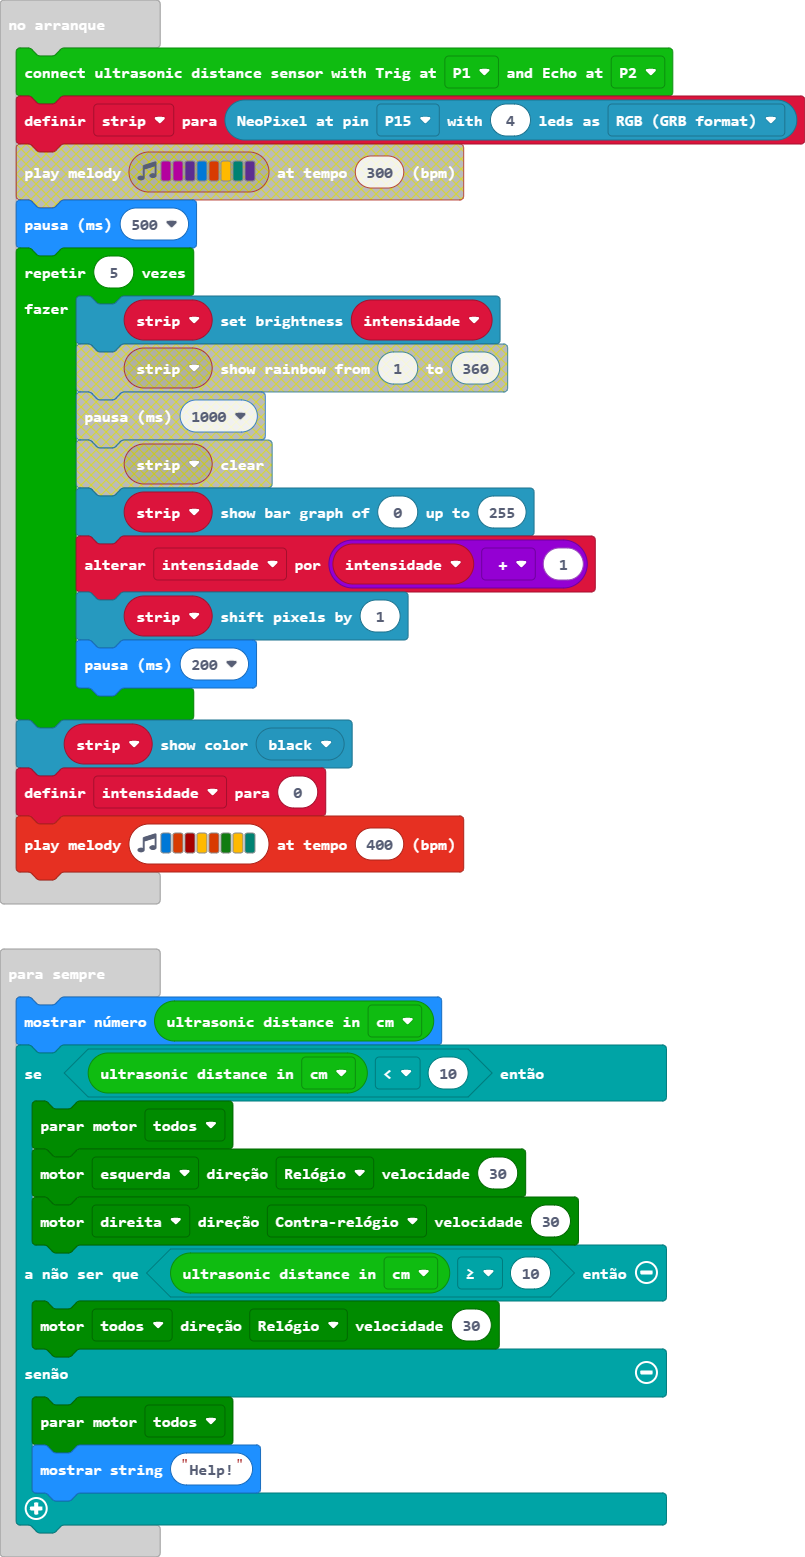
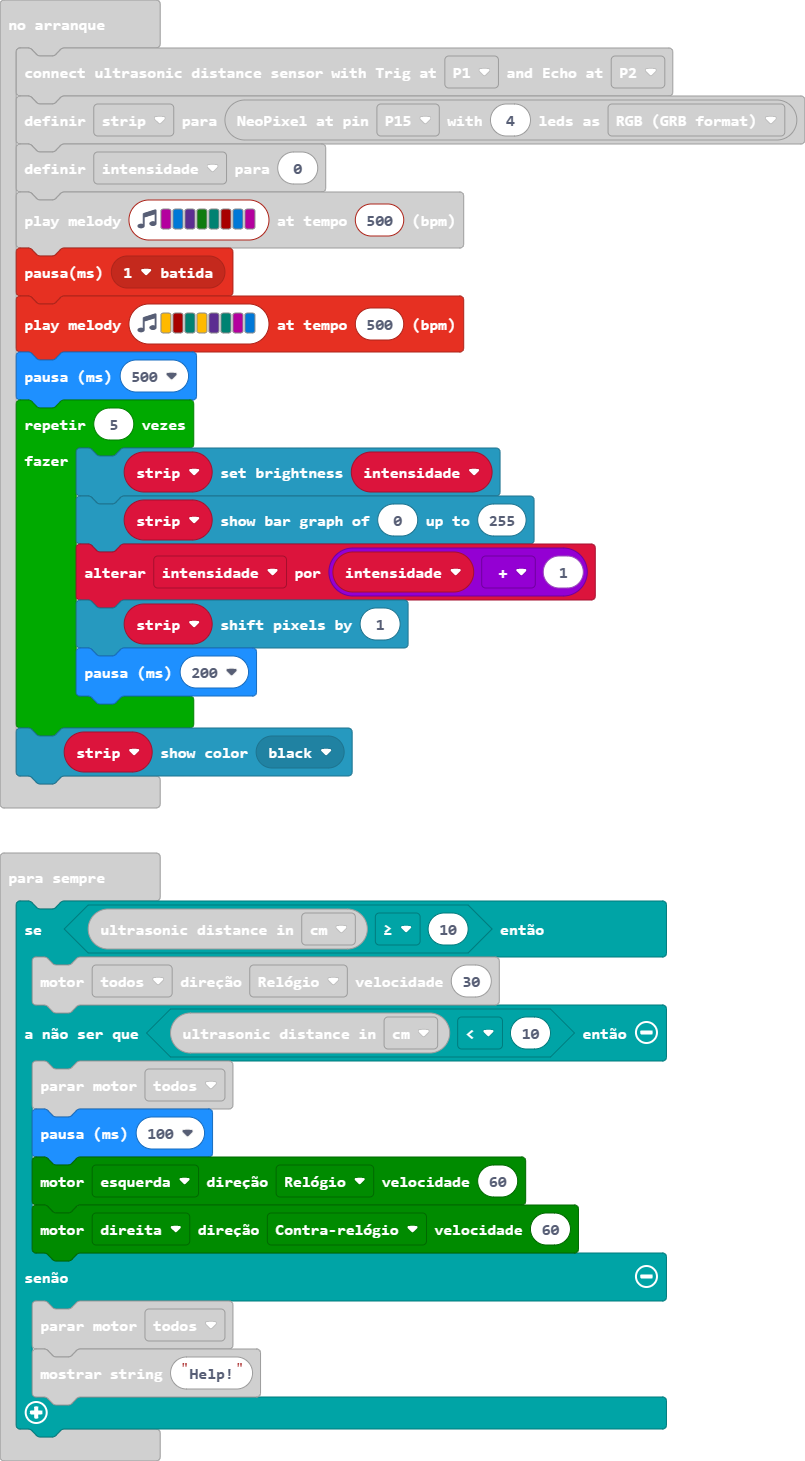
alteração de sequencia de movimento

diff --git a/main.ts b/main.ts
@@ -1,7 +1,9 @@
 makerbit.connectUltrasonicDistanceSensor(DigitalPin.P1, DigitalPin.P2)
 let strip = neopixel.create(DigitalPin.P15, 4, NeoPixelMode.RGB)
 let intensidade = 0
-music.playMelody("E B C5 A B G A F ", 400)
+music.playMelody("C E D G F C5 E C ", 500)
+music.rest(music.beat(BeatFraction.Whole))
+music.playMelody("A C5 F A D F C E ", 500)
 basic.pause(500)
 for (let index = 0; index < 5; index++) {
     strip.setBrightness(intensidade)
@@ -12,13 +14,13 @@ for (let index = 0; index < 5; index++) {
 }
 strip.showColor(neopixel.colors(NeoPixelColors.Black))
 basic.forever(function () {
-    basic.showNumber(makerbit.getUltrasonicDistance(DistanceUnit.CM))
-    if (makerbit.getUltrasonicDistance(DistanceUnit.CM) < 10) {
-        maqueen.motorStop(maqueen.Motors.All)
-        maqueen.motorRun(maqueen.Motors.M1, maqueen.Dir.CW, 30)
-        maqueen.motorRun(maqueen.Motors.M2, maqueen.Dir.CCW, 30)
-    } else if (makerbit.getUltrasonicDistance(DistanceUnit.CM) >= 10) {
+    if (makerbit.getUltrasonicDistance(DistanceUnit.CM) >= 10) {
         maqueen.motorRun(maqueen.Motors.All, maqueen.Dir.CW, 30)
+    } else if (makerbit.getUltrasonicDistance(DistanceUnit.CM) < 10) {
+        maqueen.motorStop(maqueen.Motors.All)
+        basic.pause(100)
+        maqueen.motorRun(maqueen.Motors.M1, maqueen.Dir.CW, 60)
+        maqueen.motorRun(maqueen.Motors.M2, maqueen.Dir.CCW, 60)
     } else {
         maqueen.motorStop(maqueen.Motors.All)
         basic.showString("Help!")
